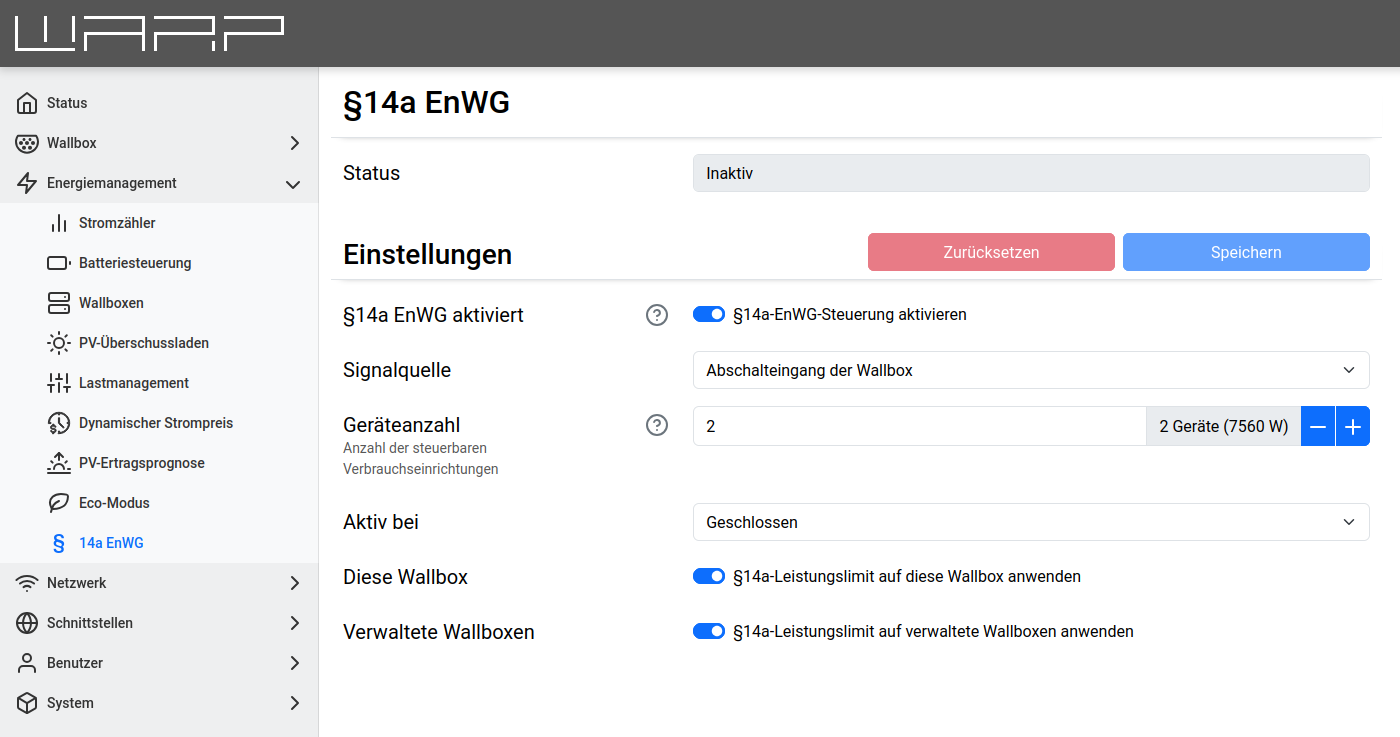
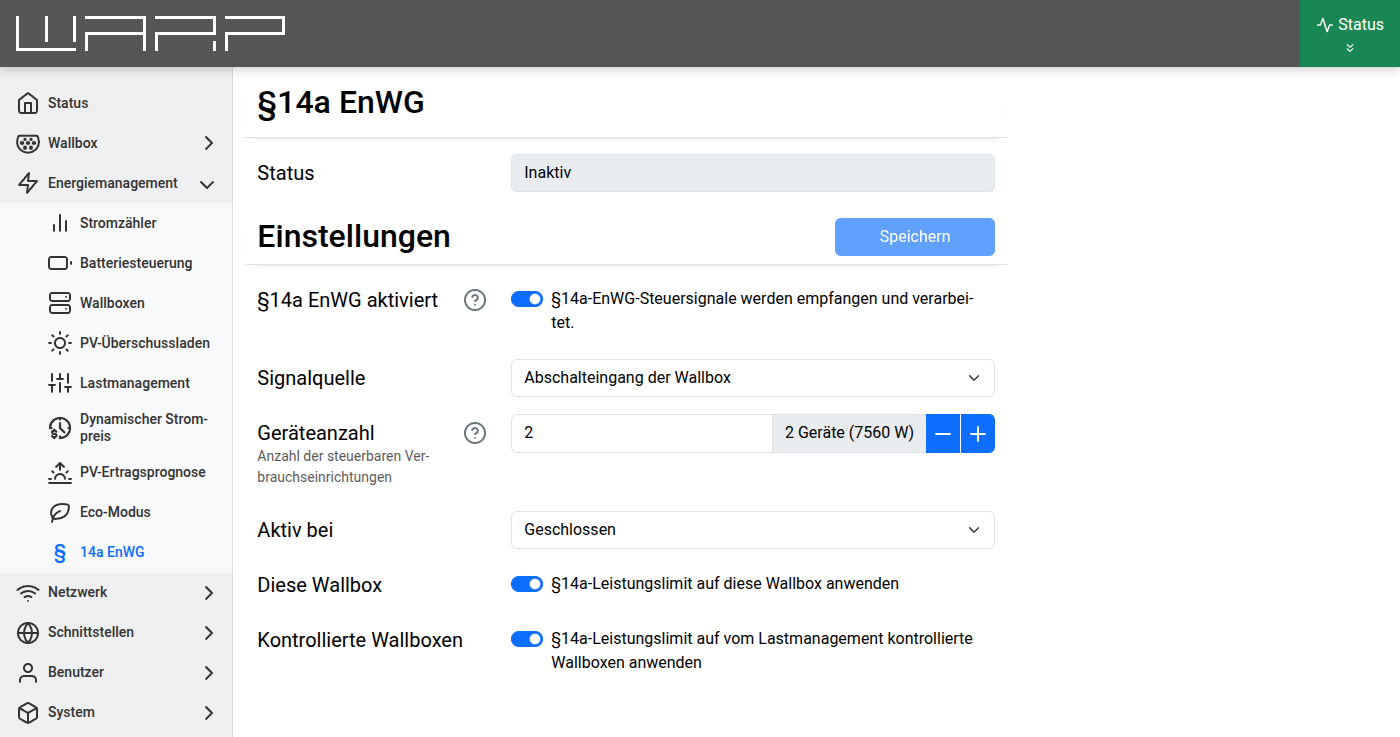
docs: Improve §14a EnWG documentation

diff --git a/api_doc_generator/heating.py b/api_doc_generator/heating.py
@@ -28,14 +28,14 @@ heating = Module("heating", T({'de': "Heizung", 'en': "Heating"}), "", T({'de': 
         "blocking_hours": Elem.INT(T({'de': "Anzahl der (teuersten) Stunden für die der blockierende Betrieb genutzt werden soll.", 'en': "Number of (most expensive) hours for which blocking operation should be used."}), unit=Units.h),
         "pv_excess_control": Elem.BOOL(T({'de': "Gibt an, ob die PV-Überschusssteuerung aktiviert werden soll.", 'en': "Specifies whether PV excess control should be enabled."})),
         "pv_excess_control_threshold": Elem.INT(T({'de': "Grenzewert für die PV-Überschusssteuerung. Wenn die PV-Überschusssteuerung aktiviert ist und der PV-Überschuss größer als der eingestellte Wert ausfällt, wird die Heizung nur bei PV-Überschuss in den erweiterten Betrieb gebracht.", 'en': "Threshold for PV excess control. When PV excess control is enabled and PV excess exceeds the configured value, heating is only switched to extended operation when there is PV excess."}), unit=Units.W),
-        "p14enwg": Elem.BOOL(T({'de': "Gibt an, ob die §14a EnWG-Steuerung aktiviert werden soll.", 'en': "Specifies whether §14a EnWG control should be enabled."})),
-        "p14enwg_input": Elem.INT(T({'de': "Gibt an, welcher Eingang des Energiemanagers für die Abschaltung per §14a EnWG genutzt werden soll.", 'en': "Specifies which input of the energy manager should be used for shutdown via §14a EnWG."}), constants=[
+        "p14enwg": Elem.BOOL(T({'de': "Veraltet, wird ignoriert. Die §14a-EnWG-Steuerung wird über {{{ref:p14a_enwg/config}}} konfiguriert. Eine alte Konfiguration wird beim Firmware-Update automatisch dorthin übernommen.", 'en': "Obsolete, ignored. §14a EnWG control is configured via {{{ref:p14a_enwg/config}}}. An old configuration is moved there automatically by the firmware update."})),
+        "p14enwg_input": Elem.INT(T({'de': "Veraltet, wird ignoriert. Siehe {{{ref:p14a_enwg/config}}}.", 'en': "Obsolete, ignored. See {{{ref:p14a_enwg/config}}}."}), constants=[
             Const(0, T({'de': "Eingang 1", 'en': "Input 1"})),
             Const(1, T({'de': "Eingang 2", 'en': "Input 2"})),
             Const(2, T({'de': "Eingang 3", 'en': "Input 3"})),
             Const(3, T({'de': "Eingang 4", 'en': "Input 4"})),
         ]),
-        "p14enwg_type": Elem.INT(T({'de': "Konfiguration für den Eingang.", 'en': "Configuration for the input."}), constants=[
+        "p14enwg_type": Elem.INT(T({'de': "Veraltet, wird ignoriert. Siehe {{{ref:p14a_enwg/config}}}.", 'en': "Obsolete, ignored. See {{{ref:p14a_enwg/config}}}."}), constants=[
             Const(0, T({'de': "Aktiv wenn geschlossen", 'en': "Active when closed"})),
             Const(1, T({'de': "Aktiv wenn geöffnet", 'en': "Active when open"})),
         ])

diff --git a/docs.warp-charger.com/docs/webinterface/energy_management/p14a_enwg.md b/docs.warp-charger.com/docs/webinterface/energy_management/p14a_enwg.md
@@ -32,13 +32,15 @@ Aktiviert oder deaktiviert die §14a-EnWG-Steuerung. Ist die Steuerung deaktivie
 Die Signalquelle bestimmt, woher das Steuersignal des Netzbetreibers empfangen wird. Es stehen folgende Optionen zur Verfügung:
 
 - **Abschalteingang der Wallbox** (nur WARP Charger): Das Signal wird über den potentialfreien Abschalteingang innerhalb der Wallbox empfangen. Ein Rundsteuerempfänger oder eine Steuerbox des Netzbetreibers wird hierzu direkt an den Abschalteingang angeschlossen.
-- **Eingang des WARP Energy Managers** (nur Energy Manager): Das Signal wird über einen der vier Eingänge des WARP Energy Managers empfangen. Der Rundsteuerempfänger oder die Steuerbox wird an einen Eingang des Energy Managers angeschlossen.
-- **EEBUS**: Das Steuersignal wird über die [EEBUS-Schnittstelle](/docs/interfaces/eebus) empfangen. EEBUS kann als Schnittstelle zur Steuerung von Verbrauchseinrichtungen durch Netzbetreiber genutzt werden.
-- **API**: Das Steuersignal wird per HTTP/MQTT-API empfangen. Details zur API finden sich in der API-Dokumentation unter `p14a_enwg/control_update`.
+- **Eingang des WARP Energy Manager** (nur Energy Manager): Das Signal wird über einen der Eingänge des WARP Energy Managers empfangen (WARP Energy Manager 2.0: vier Eingänge, WARP Energy Manager: zwei Eingänge). Der Rundsteuerempfänger oder die Steuerbox wird an einen Eingang des Energy Managers angeschlossen.
+- **EEBUS**: Das Steuersignal wird über die [EEBUS-Schnittstelle](/docs/interfaces/eebus) empfangen. EEBUS kann als Schnittstelle zur Steuerung von Verbrauchseinrichtungen durch Netzbetreiber genutzt werden. EEBUS muss dazu zusätzlich unter `Schnittstellen` -> `EEBUS` aktiviert sein. Das Leistungslimit gibt in diesem Fall die Steuerbox vor.
+- **API**: Das Steuersignal wird per HTTP/MQTT-API empfangen. Details zur API finden sich in der API-Dokumentation unter [`p14a_enwg/control_update`](/docs/interfaces/mqtt_http/api_reference/p14a_enwg). Das Leistungslimit wird dabei mit übergeben.
 
-### Eingang (nur bei Signalquelle "Eingang des Energy Managers")
+Die folgenden Einstellungen **Eingang**, **Geräteanzahl** und **Aktiv bei** werden nur angezeigt, wenn als Signalquelle ein Eingang (Abschalteingang der Wallbox bzw. Eingang des WARP Energy Manager) gewählt ist.
 
-Wählt den Eingang (1–4) des WARP Energy Managers, an dem der Rundsteuerempfänger oder die Steuerbox angeschlossen ist.
+### Eingang (nur Energy Manager)
+
+Wählt den Eingang des WARP Energy Managers, an dem der Rundsteuerempfänger oder die Steuerbox angeschlossen ist.
 
 ### Geräteanzahl
 
@@ -56,7 +58,8 @@ Anzahl der steuerbaren Verbrauchseinrichtungen, die über das Energiemanagements
 | 6 | 0,60 | 16800 W |
 | 7 | 0,55 | 18060 W |
 | 8 | 0,50 | 18900 W |
-| ab 9 | 0,45 | 18900 W + n × 0,45 × 4200 W |
+| 9 | 0,45 | 19320 W |
+| ab 10 | 0,45 | 4200 W + (n − 1) × 0,45 × 4200 W |
 
 ### Aktiv bei
 
@@ -70,22 +73,37 @@ Bestimmt, bei welchem Zustand des Eingangs das Leistungslimit aktiv wird:
 In diesem Abschnitt wird konfiguriert, auf welche Verbraucher das Leistungslimit angewendet werden soll:
 
 - **Diese Wallbox** (nur WARP Charger): Wendet das Leistungslimit auf die lokale Wallbox an.
-- **Verwaltete Wallboxen**: Wendet das Leistungslimit auf alle über das Lastmanagement verwalteten Wallboxen an.
-- **Heizung** (nur Energy Manager): Wendet das Leistungslimit auf die angeschlossene Heizung (Wärmepumpe via SG-Ready) an. Wird die Heizung als Zielgerät aktiviert, kann zusätzlich die **Max. Leistung Heizung** konfiguriert werden.
+- **Kontrollierte Wallboxen**: Wendet das Leistungslimit auf alle vom Lastmanagement [kontrollierten Wallboxen](/docs/webinterface/energy_management/wallboxes#kontrollierte-wallboxen) an. Dazu muss dieses Gerät das Lastmanagement der Wallboxen übernehmen.
+- **Heizung** (nur WARP Energy Manager 2.0): Wendet das Leistungslimit auf die angeschlossene Heizung (Wärmepumpe via SG-Ready) an.
 
-### Max. Leistung Heizung (nur Energy Manager)
+### Max. Leistung Heizung (nur WARP Energy Manager 2.0)
 
-Gibt die maximale Leistungsaufnahme der Heizungsanlage in Watt an.
+Gibt die maximale Leistungsaufnahme der Heizungsanlage in Watt an. Die Einstellung ist für eine spätere Einbindung der Heizung in das Lastmanagement vorgesehen und wird aktuell noch nicht ausgewertet.
+
+## Status
+
+Ist die §14a-EnWG-Steuerung aktiviert, wird oben auf der Seite der aktuelle Zustand angezeigt:
+
+- **Status**: Zeigt an, ob das Leistungslimit gerade aktiv ist ("Aktiv") oder nicht ("Inaktiv").
+- **Aktuelles Limit**: Zeigt das aktuell angewendete Leistungslimit in Watt an (nur bei aktivem Limit).
+
+Zusätzlich erscheint in der Statusanzeige des Webinterfaces (oben rechts, in der App auf der Statusseite) der Eintrag "14a EnWG" mit dem Zustand, z.B. "Aktiv (4200 W)".
+
+:::tip
+
+Zum Testen der Konfiguration kann **Aktiv bei** kurzzeitig auf **Geöffnet** gestellt und gespeichert werden. Solange die Steuerbox kein Signal gibt, ist der Eingang geöffnet und das Limit wird sofort aktiv. Anschließend die Einstellung wieder auf **Geschlossen** zurückstellen und speichern.
+
+:::
 
 ## Unterschiede zwischen WARP Charger und Energy Manager
 
 | | WARP Charger | Energy Manager |
 |---|---|---|
-| **Signalquelle "Eingang"** | Abschalteingang der Wallbox | Eingang 1–4 des Energy Managers |
-| **Eingangsauswahl** | Nicht verfügbar (nur ein Eingang) | Eingang 1–4 wählbar |
+| **Signalquelle "Eingang"** | Abschalteingang der Wallbox | Eingang des WARP Energy Manager |
+| **Eingangsauswahl** | Nicht verfügbar (nur ein Eingang) | Eingang 1-4 (WARP Energy Manager: 1-2) |
 | **Diese Wallbox** | Verfügbar | Nicht verfügbar |
-| **Heizung** | Nicht verfügbar | Verfügbar |
-| **Max. Leistung Heizung** | Nicht verfügbar | Verfügbar |
+| **Heizung** | Nicht verfügbar | Verfügbar (WARP Energy Manager 2.0) |
+| **Max. Leistung Heizung** | Nicht verfügbar | Verfügbar (WARP Energy Manager 2.0) |
 
 ## Weitere Informationen
 

diff --git a/docs.warp-charger.com/i18n/en/docusaurus-plugin-content-docs/current/webinterface/energy_management/p14a_enwg.md b/docs.warp-charger.com/i18n/en/docusaurus-plugin-content-docs/current/webinterface/energy_management/p14a_enwg.md
@@ -32,13 +32,15 @@ Enables or disables the §14a EnWG control. When disabled, no power limits are a
 The signal source determines where the grid operator's control signal is received from. The following options are available:
 
 - **Charger shutdown input** (WARP Charger only): The signal is received via the potential-free shutdown input inside the charger. A ripple control receiver or control box from the grid operator is connected directly to the shutdown input.
-- **Energy Manager input** (Energy Manager only): The signal is received via one of the four inputs of the WARP Energy Manager. The ripple control receiver or control box is connected to an input of the Energy Manager. The chargers are then controlled via the network.
-- **EEBUS**: The control signal is received via the [EEBUS interface](/docs/interfaces/eebus). EEBUS is the designated interface for grid operator control of consumer devices.
-- **API**: The control signal is received via the HTTP/MQTT API. Details can be found in the API documentation under `p14a_enwg/control_update`.
+- **WARP Energy Manager input** (Energy Manager only): The signal is received via one of the inputs of the WARP Energy Manager (WARP Energy Manager 2.0: four inputs, WARP Energy Manager: two inputs). The ripple control receiver or control box is connected to an input of the Energy Manager. The chargers are then controlled via the network.
+- **EEBUS**: The control signal is received via the [EEBUS interface](/docs/interfaces/eebus). EEBUS is the designated interface for grid operator control of consumer devices. EEBUS must also be enabled under `Interfaces` -> `EEBUS`.
+- **API**: The control signal is received via the HTTP/MQTT API. Details can be found in the API documentation under [`p14a_enwg/control_update`](/docs/interfaces/mqtt_http/api_reference/p14a_enwg). The power limit is passed along with the signal. A state set via the API is reset to inactive on reboot.
 
-### Input (only with signal source "Energy Manager input")
+The following settings **Input**, **Device count** and **Active on** are only shown if an input (charger shutdown input or WARP Energy Manager input) is selected as the signal source.
 
-Selects the input (1–4) of the WARP Energy Manager to which the ripple control receiver or control box is connected.
+### Input (Energy Manager only)
+
+Selects the input of the WARP Energy Manager to which the ripple control receiver or control box is connected.
 
 ### Device count
 
@@ -56,7 +58,8 @@ Number of controllable consumer devices managed by the energy management system.
 | 6 | 0.60 | 16800 W |
 | 7 | 0.55 | 18060 W |
 | 8 | 0.50 | 18900 W |
-| 9+ | 0.45 | 18900 W + n × 0.45 × 4200 W |
+| 9 | 0.45 | 19320 W |
+| 10+ | 0.45 | 4200 W + (n − 1) × 0.45 × 4200 W |
 
 ### Active on
 
@@ -70,12 +73,12 @@ Determines at which input state the power limit becomes active:
 This section configures which consumers the power limit should be applied to:
 
 - **This charger** (WARP Charger only): Applies the power limit to the local charger.
-- **Managed chargers**: Applies the power limit to all chargers managed via charge management.
-- **Heating** (Energy Manager only): Applies the power limit to the connected heating system (heat pump via SG-Ready). When heating is enabled as a target device, the **Heating max. power** can additionally be configured.
+- **Managed chargers**: Applies the power limit to all chargers [controlled by the charge manager](/docs/webinterface/energy_management/wallboxes#controlled-chargers). This device must be the charge manager of these chargers.
+- **Heating** (WARP Energy Manager 2.0 only): Applies the power limit to the connected heating system (heat pump via SG-Ready).
 
-### Heating max. power (Energy Manager only)
+### Heating max. power (WARP Energy Manager 2.0 only)
 
-Specifies the maximum power draw of the heating system in watts.
+Specifies the maximum power draw of the heating system in watts. The setting is intended for a later integration of the heating into the charge management and is currently not evaluated yet.
 
 ## Status
 
@@ -84,17 +87,23 @@ When the §14a EnWG control is enabled, the current status is displayed at the t
 - **Status**: Shows whether the power limit is currently active or inactive.
 - **Current limit**: Shows the currently applied power limit in watts (only visible when active).
 
-Additionally, a warning banner is displayed on the **Status page** when the power limit is active (e.g. "Power limited to 4200 W").
+Additionally, the status indicator of the web interface (top right, in the app on the status page) shows the entry "14a EnWG" with its state, e.g. "Active (4200 W)".
+
+:::tip
+
+To test the configuration, **Active on** can temporarily be set to **Open** and saved. As long as the control box does not send a signal, the input is open and the limit becomes active immediately. Afterwards set the option back to **Closed** and save.
+
+:::
 
 ## Differences between WARP Charger and Energy Manager
 
 | | WARP Charger | Energy Manager |
 |---|---|---|
-| **Signal source "Input"** | Charger shutdown input | Energy Manager input 1–4 |
-| **Input selection** | Not available (single input only) | Input 1–4 selectable |
+| **Signal source "Input"** | Charger shutdown input | WARP Energy Manager input |
+| **Input selection** | Not available (single input only) | Input 1–4 (WARP Energy Manager: 1–2) |
 | **This charger** | Available | Not available |
-| **Heating** | Not available | Available |
-| **Heating max. power** | Not available | Available |
+| **Heating** | Not available | Available (WARP Energy Manager 2.0) |
+| **Heating max. power** | Not available | Available (WARP Energy Manager 2.0) |
 
 ## Further information
 

diff --git a/docs.warp-charger.com/docs/tutorials/verbrauchseinrichtung.md b/docs.warp-charger.com/docs/tutorials/verbrauchseinrichtung.md
@@ -29,7 +29,7 @@ bezahlen. Dazu kann ein Modul gewählt werden:
 
 ### Modul 1 - Pauschale Reduktion
 
-Bei Modul 1 wird das Netzentgelt pauschal für einen angenonmmenen fixen Stromverbrauch reduziert. Daraus ergibt sich ein fixer Euro-Betrag der jährlich über die Stromrechnung gutgeschrieben wird.
+Bei Modul 1 wird das Netzentgelt pauschal für einen angenommenen fixen Stromverbrauch reduziert. Daraus ergibt sich ein fixer Euro-Betrag der jährlich über die Stromrechnung gutgeschrieben wird.
 Diese Gutschrift ist pauschal und dementsprechend unabhängig vom eigenen Stromverbrauch. Für die technische Umsetzung von Modul 1 ist keine zusätzliche Hardware notwendig.
 Die Reduktion hat keine technischen Auswirkungen auf WARP Charger oder WARP Energy Manager. Dieses Modul lohnt sich bei sehr niedrigen Stromverbräuchen.
 
@@ -76,12 +76,12 @@ Am Abschalteingang innerhalb der Wallbox kann ein potentialfreier
 Kontakt (spannungsfreier Schaltkontakt) angeschlossen werden. Dazu muss
 eine Steuerleitung vom Rundsteuerempfänger oder der Steuerbox des
 Netzbetreibers in die Wallbox gelegt und am Ladecontroller angeschlossen
-werden. Für Details zum Anschluss am Klemmbock siehe
-[Montage und Installation](/docs/warp3/assembly_and_installation.md#evse-klemmblock--abschalteingang).
+werden. Für Details zum Anschluss am Klemmblock siehe
+[Montage und Installation](@current-charger/assembly_and_installation#evse-klemmblock--abschalteingang).
 
 Im §14a-EnWG-Modul wird als Signalquelle **Abschalteingang der Wallbox**
-ausgewählt. Das Leistungslimit wird dann automatisch angewendet,
-sobald der Netzbetreiber den Eingang schaltet.
+ausgewählt und **Diese Wallbox** aktiviert. Das Leistungslimit wird dann
+automatisch angewendet, sobald der Netzbetreiber den Eingang schaltet.
 
 ![image](/img/webinterface/energy_management/p14a_enwg.png)
 
@@ -92,9 +92,15 @@ Möglichkeit, einen der vier Eingänge des WARP Energy Managers mit dem
 Rundsteuerempfänger oder der Steuerbox zu verbinden. Der WARP Energy
 Manager steuert dann die Leistung der Wallbox(en) über das Netzwerk
 (LAN/WLAN). Eine gesonderte Steuerleitung zur Wallbox entfällt.
+Für Details zum Anschluss siehe
+[Montage und Installation](@current-wem/assembly_and_installation#eingänge).
 
-Im §14a-EnWG-Modul wird als Signalquelle **Eingang des Energy Managers**
-ausgewählt und der entsprechende Eingang (1-4) konfiguriert.
+Im §14a-EnWG-Modul des Energy Managers wird als Signalquelle **Eingang des
+WARP Energy Manager** ausgewählt, der entsprechende Eingang (1-4) konfiguriert
+und **Kontrollierte Wallboxen** aktiviert. Voraussetzung ist, dass der
+WARP Energy Manager das Lastmanagement der Wallboxen übernimmt. Mit dem
+WARP Energy Manager 2.0 kann zusätzlich eine Wärmepumpe (SG-Ready) als
+**Heizung** einbezogen werden.
 
 
 ### EEBUS

diff --git a/docs.warp-charger.com/docs/warp2/assembly_and_installation.md b/docs.warp-charger.com/docs/warp2/assembly_and_installation.md
@@ -332,9 +332,9 @@ Am Abschalteingang innerhalb der Wallbox kann ein potentialfreier Kontakt (spann
 Schaltkontakt) angeschlossen werden. Dazu muss eine Steuerleitung vom Rundsteuerempfänger
 oder der Steuerbox des Netzbetreibers in die Wallbox gelegt werden und am Ladecontroller
 (untere Platine) am mit "Enable" beschrifteten, dreipoligen Stecker an Pin 1 und Pin 2
-angeschlossen werden. Damit die Wallbox abschaltet, muss unter Wallbox -> Ladeeinstellungen
-die Einstellung "Abschalteingang" auf "Begrenzen auf 4300 W wenn geschlossen" bzw. "wenn
-geöffnet" konfiguriert werden.
+angeschlossen werden. Damit die Wallbox die Leistung begrenzt, wird unter Energiemanagement ->
+§14a EnWG die Signalquelle "Abschalteingang der Wallbox" gewählt und "Diese Wallbox" aktiviert
+(ab Firmware 2.10.0, siehe [§14a EnWG](/docs/webinterface/energy_management/p14a_enwg)).
 
 #### Rundsteuerempfänger / Steuerbox (mittels WARP Energy Manager)
 
@@ -342,12 +342,10 @@ Anstatt eine Steuerleitung bis in die Wallbox zu legen, besteht auch die Möglic
 Eingänge des WARP Energy Managers mit dem Rundsteuerempfänger oder der Steuerbox zu
 verbinden. Der WARP Energy Manager steuert dann die Leistung der Wallbox(en) über das
 Netzwerk (LAN/WLAN). Eine gesonderte Steuerleitung entfällt. Der WARP Energy Manager muss
-hierfür als Lastmanager der betreffenden Wallbox(en) konfiguriert werden. Anschließend muss
-in "Energiemanager" -> "Automatisierung" folgende Regel angelegt werden:
-
--   **Bedingung:** "Eingang 3 geschaltet" (bzw. Eingang 4) -> "auf geschlossen"
--   **Aktion:** "Begrenze maximalen Gesamtstrom"
--   **Maximaler Gesamtstrom:** 6 A (bzw. 18 A bei einphasigem Anschluss)
+hierfür als Lastmanager der betreffenden Wallbox(en) konfiguriert werden. Anschließend wird im
+WARP Energy Manager unter Energiemanagement -> §14a EnWG die Signalquelle "Eingang des WARP Energy
+Manager" und der verwendete Eingang gewählt sowie "Kontrollierte Wallboxen" aktiviert, siehe
+[§14a EnWG](/docs/webinterface/energy_management/p14a_enwg).
 
 ## Prüfungen
 

diff --git a/docs.warp-charger.com/i18n/en/docusaurus-plugin-content-docs/current/warp2/assembly_and_installation.md b/docs.warp-charger.com/i18n/en/docusaurus-plugin-content-docs/current/warp2/assembly_and_installation.md
@@ -321,9 +321,8 @@ for control.
 A potential-free contact (voltage-free switching contact) can be connected to the shutdown input inside the charger. For this, a control line from the ripple control receiver
 or the control box of the grid operator must be routed into the charger and connected at the charge controller
 (lower board) at the three-pole connector labeled "Enable" at pin 1 and pin 2.
-For the charger to switch off, the setting "Shutdown input" must be configured under Charger -> Charge settings
-to "Limit to 4300 W when closed" or "when
-open".
+For the charger to limit its power, select the signal source "Charger shutdown input" under Energy Management ->
+§14a EnWG and enable "This charger" (firmware 2.10.0 or newer, see [§14a EnWG](/docs/webinterface/energy_management/p14a_enwg)).
 
 #### Ripple Control Receiver / Control Box (using WARP Energy Manager)
 
@@ -331,12 +330,10 @@ Instead of routing a control line all the way into the charger, there is also th
 inputs of the WARP Energy Manager to the ripple control receiver or the control box.
 The WARP Energy Manager then controls the power of the charger(s) via the
 network (LAN/WLAN). A separate control line is not required. The WARP Energy Manager must
-be configured as the load manager of the relevant charger(s) for this. Afterwards, the
-following rule must be created in "Energy Manager" -> "Automation":
-
--   **Condition:** "Input 3 switched" (or input 4) -> "to closed"
--   **Action:** "Limit maximum total current"
--   **Maximum total current:** 6 A (or 18 A for single-phase connection)
+be configured as the load manager of the relevant charger(s) for this. Afterwards, select the
+signal source "WARP Energy Manager input" and the input used under Energy Management -> §14a EnWG
+of the WARP Energy Manager and enable "Managed chargers", see
+[§14a EnWG](/docs/webinterface/energy_management/p14a_enwg).
 
 ## Testing
 

diff --git a/docs.warp-charger.com/i18n/en/docusaurus-plugin-content-docs/current/tutorials/verbrauchseinrichtung.md b/docs.warp-charger.com/i18n/en/docusaurus-plugin-content-docs/current/tutorials/verbrauchseinrichtung.md
@@ -76,11 +76,11 @@ at the shutdown input inside the charger. For this, a control line from
 the ripple control receiver or the grid operator's control box must be
 routed into the charger and connected to the charge controller. For
 details on the connection at the terminal block, see
-[Assembly and Installation](/warp3/assembly_and_installation.md#evse-klemmblock--abschalteingang).
+[Assembly and Installation](@current-charger/assembly_and_installation#evse-terminal-block--shutdown-input).
 
 In the §14a EnWG module, select **Charger shutdown input** as the signal
-source. The power limit is then automatically applied as soon as the
-grid operator switches the input.
+source and enable **This charger**. The power limit is then automatically
+applied as soon as the grid operator switches the input.
 
 ![image](/img/webinterface/energy_management/p14a_enwg.png)
 
@@ -90,10 +90,14 @@ Instead of routing a control line into the charger, there is also the
 option to connect one of the four inputs of the WARP Energy Manager to
 the ripple control receiver or control box. The WARP Energy Manager then
 controls the power of the charger(s) via the network (LAN/WLAN). A
-separate control line to the charger is not required.
+separate control line to the charger is not required. For details on the
+connection, see [Assembly and Installation](@current-wem/assembly_and_installation#inputs).
 
-In the §14a EnWG module, select **Energy Manager input** as the signal
-source and configure the corresponding input (1-4).
+In the §14a EnWG module of the Energy Manager, select **WARP Energy Manager
+input** as the signal source, configure the corresponding input (1-4) and
+enable **Managed chargers**. The WARP Energy Manager must be the charge
+manager of the chargers. With the WARP Energy Manager 2.0, a heat pump
+(SG-Ready) can additionally be included as **Heating**.
 
 ### EEBUS
 

diff --git a/docs.warp-charger.com/docs/webinterface/wallbox/settings.md b/docs.warp-charger.com/docs/webinterface/wallbox/settings.md
@@ -77,7 +77,12 @@ Beim ersten Taster-Druck wird der aktuelle Lademodus angezeigt. Weiteres Drücke
 ## Abschalteingang
 
 Am Abschalteingang kann zum Beispiel ein Rundsteuerempfänger angeschlossen werden. Hier kann eingestellt werden, wie auf Änderungen
-am Abschalteingang reagiert werden soll. In der Standardkonfiguration der Wallbox wird auf 4200 W limitiert, wenn der Abschalteingang geschlossen ist, siehe
+am Abschalteingang reagiert werden soll: "Nicht konfiguriert" (Standard), "Abschalten, wenn geöffnet" oder "Abschalten, wenn geschlossen".
+
+Um die Leistung nach §14a EnWG auf 4200 W zu begrenzen, wird der Abschalteingang nicht hier, sondern auf der Seite
+[§14a EnWG](/docs/webinterface/energy_management/p14a_enwg.md) konfiguriert (Signalquelle "Abschalteingang der Wallbox").
+Die Einstellung hier bleibt dann auf "Nicht konfiguriert". Eine ältere Einstellung mit Begrenzung auf 4200 W wird bei einem
+Firmware-Update automatisch auf die Seite §14a EnWG übernommen. Siehe auch
 [Steuerbare Verbrauchseinrichtung nach §14a EnWG](/docs/tutorials/verbrauchseinrichtung).
 
 

diff --git a/docs.warp-charger.com/docs/warp4/assembly_and_installation.md b/docs.warp-charger.com/docs/warp4/assembly_and_installation.md
@@ -296,10 +296,12 @@ angeschlossen.
 
 Zusätzlich befindet sich hier der Abschalteingang ("EN"). Dieser Eingang
 muss mit PE kurzgeschlossen werden, um aktiv zu sein. PE ist mehrfach
-auf dem Klemmblock vorhanden. Die Interpretation des Abschalteingangs
-kann unter `Wallbox` → `Einstellungen` unter dem Punkt "Abschalteingang"
-definiert werden. Zur Nutzung als steuerbare Verbrauchseinrichtung siehe
-[Steuerbare Verbrauchseinrichtung nach §14a EnWG](/tutorials/verbrauchseinrichtung.md).
+auf dem Klemmblock vorhanden. Zur Nutzung als steuerbare
+Verbrauchseinrichtung wird der Abschalteingang unter `Energiemanagement`
+→ `§14a EnWG` konfiguriert, siehe
+[Steuerbare Verbrauchseinrichtung nach §14a EnWG](/docs/tutorials/verbrauchseinrichtung.md).
+Soll der Eingang die Wallbox dagegen komplett abschalten, wird dies unter
+`Wallbox` → `Einstellungen` unter dem Punkt "Abschalteingang" eingestellt.
 
 Die Belegung des Klemmblocks ist beschriftet.
 

diff --git a/docs.warp-charger.com/i18n/en/docusaurus-plugin-content-docs/current/webinterface/wallbox/settings.md b/docs.warp-charger.com/i18n/en/docusaurus-plugin-content-docs/current/webinterface/wallbox/settings.md
@@ -75,7 +75,12 @@ On the first button press, the current charge mode is displayed. Further presses
 ## Shutdown Input
 
 For example, a ripple control receiver can be connected to the shutdown input. Here you can set how to react to changes
-at the shutdown input. In the default charger configuration, the limit is set to 4200 W when the shutdown input is closed, see
+at the shutdown input: "Not configured" (default), "Shut down on open" or "Shut down on close".
+
+To limit the power to 4200 W according to §14a EnWG, the shutdown input is not configured here but on the
+[§14a EnWG](/webinterface/energy_management/p14a_enwg.md) page (signal source "Charger shutdown input").
+The setting here then stays at "Not configured". An older setting that limits to 4200 W is automatically moved to the
+§14a EnWG page by a firmware update. See also
 [Controllable Consumption Device according to §14a EnWG](/tutorials/verbrauchseinrichtung.md).
 
 

diff --git a/docs.warp-charger.com/i18n/en/docusaurus-plugin-content-docs/current/warp4/assembly_and_installation.md b/docs.warp-charger.com/i18n/en/docusaurus-plugin-content-docs/current/warp4/assembly_and_installation.md
@@ -276,10 +276,11 @@ terminal block. The CP line of the Type 2 charging cable is connected to this.
 
 Additionally, there is the shutdown input ("EN") here. This input
 must be short-circuited with PE to be active. PE is available multiple
-times on the terminal block. The interpretation of the shutdown input
-can be defined under `Charger` → `Settings` under the item "Shutdown input".
-For use as a controllable consumption device, see
+times on the terminal block. For use as a controllable consumption device,
+the shutdown input is configured under `Energy Management` → `§14a EnWG`, see
 [Controllable Consumption Device according to §14a EnWG](/tutorials/verbrauchseinrichtung.md).
+If the input should shut the charger down completely instead, this is set
+under `Charger` → `Settings` under the item "Shutdown input".
 
 The terminal block assignment is labeled.
 

diff --git a/docs.warp-charger.com/docs/faq.md b/docs.warp-charger.com/docs/faq.md
@@ -135,7 +135,7 @@ Ja. WARP Charger können sich über das eingebaute Lastmanagement einen Hausansc
 
 ### Kann ich einen WARP Charger von außen deaktivieren? Wie schließe ich einen Rundsteuerempfänger an (Stichwort §14a EnWG)?
 
-Zum das Thema §14a EnWG bieten wir ein eigenes Tutorial, welches die verschiedenen Möglichkeiten darstellt: [Tutorial §14a EnWG](/docs/tutorials/verbrauchseinrichtung).
+Zum Thema §14a EnWG bieten wir ein eigenes Tutorial, welches die verschiedenen Möglichkeiten darstellt: [Tutorial §14a EnWG](/docs/tutorials/verbrauchseinrichtung).
 
 ## Lastmanagement
 
